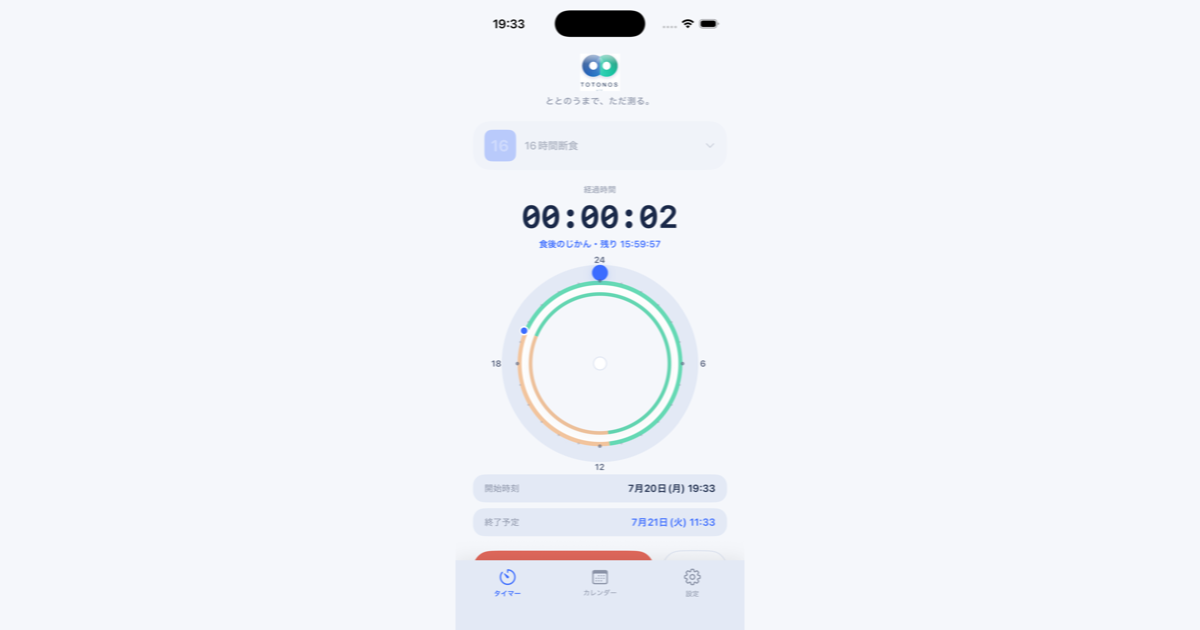
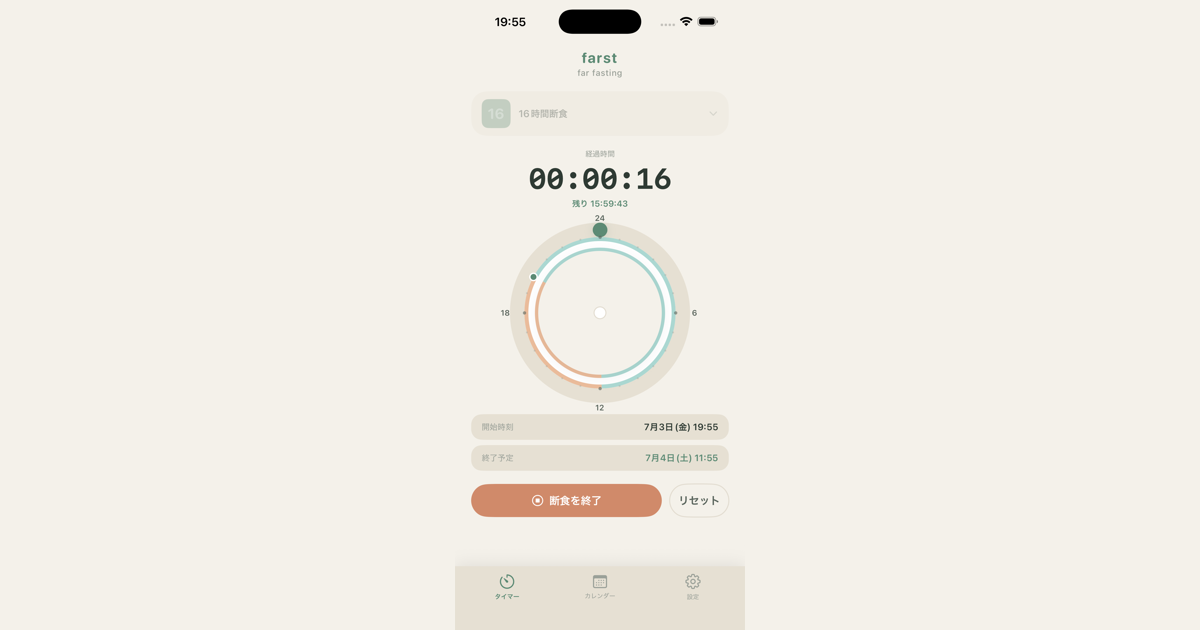
Revert "Rebrand site to TOTONOS (旧farst): LP, llms.txt, JSON-LD, OGP, new screenshots"
This reverts commit 7ea66edbb97db371519e6d4b2ed0dc7d3db63e6d.

diff --git a/farst/index.html b/farst/index.html
@@ -3,24 +3,24 @@
 <head>
 <meta charset="utf-8">
 <meta name="viewport" content="width=device-width, initial-scale=1">
-<title>TOTONOS - 断食タイマー｜無料・広告なしのiPhoneアプリ</title>
-<meta name="description" content="TOTONOS（ととのう）は16時間断食をゆるく続けるための無料iPhoneアプリ。広告なし・アカウント不要・記録は端末内のみ。1タップのタイマー、ホーム画面ウィジェット、体調メモ、体重・カレンダー。日本語対応、iOS 16以降。旧farst。">
+<title>farst - ゆるく続ける断食タイマー｜無料・広告なしのiPhoneアプリ</title>
+<meta name="description" content="farst（ファースト）は16時間断食をゆるく続けるための無料iPhoneアプリ。広告なし・アカウント不要・記録は端末内のみ。タイマーを押すだけのシンプルな断食記録と体調メモ、カレンダー分析。日本語対応、iOS 16以降。">
 <link rel="canonical" href="https://benihisago88.github.io/farst/">
 <meta name="apple-itunes-app" content="app-id=6787091633">
 
 <!-- OGP -->
 <meta property="og:type" content="website">
-<meta property="og:site_name" content="TOTONOS">
-<meta property="og:title" content="TOTONOS - 断食タイマー">
-<meta property="og:description" content="無料・広告なし・アカウント不要。ととのうまで、ただ測る。ホーム画面ウィジェット対応の断食タイマー。記録はすべて端末の中だけ。">
+<meta property="og:site_name" content="farst">
+<meta property="og:title" content="farst - ゆるく続ける断食タイマー">
+<meta property="og:description" content="無料・広告なし・アカウント不要。16時間断食をゆるく続けるためのiPhoneアプリ。記録はすべて端末の中だけ。">
 <meta property="og:url" content="https://benihisago88.github.io/farst/">
 <meta property="og:image" content="https://benihisago88.github.io/farst/assets/og.png">
 <meta property="og:image:width" content="1200">
 <meta property="og:image:height" content="630">
 <meta property="og:locale" content="ja_JP">
 <meta name="twitter:card" content="summary_large_image">
-<meta name="twitter:title" content="TOTONOS - 断食タイマー">
-<meta name="twitter:description" content="無料・広告なし・アカウント不要の断食タイマー。ととのうまで、ただ測る。">
+<meta name="twitter:title" content="farst - ゆるく続ける断食タイマー">
+<meta name="twitter:description" content="無料・広告なし・アカウント不要の断食タイマー。記録は端末の中だけ。">
 <meta name="twitter:image" content="https://benihisago88.github.io/farst/assets/og.png">
 
 <!-- 構造化データ: アプリ情報 -->
@@ -28,12 +28,12 @@
 {
   "@context": "https://schema.org",
   "@type": "SoftwareApplication",
-  "name": "TOTONOS - 断食タイマー",
-  "alternateName": ["TOTONOS", "ととのう", "farst"],
+  "name": "farst - ゆるく続ける断食タイマー",
+  "alternateName": "farst",
   "operatingSystem": "iOS 16.0以降",
   "applicationCategory": "HealthApplication",
   "applicationSubCategory": "断食タイマー",
-  "description": "16時間断食（インターミッテント・ファスティング）をゆるく続けるためのタイマーアプリ。広告なし・アカウント不要・記録は端末内のみ。24時間ダイヤル、ホーム画面ウィジェット、体調メモ、体重、カレンダー、CSV入出力。",
+  "description": "16時間断食（インターミッテント・ファスティング）をゆるく続けるためのタイマーアプリ。広告なし・アカウント不要・記録は端末内のみ。24時間ダイヤル、体調メモ、カレンダー分析、CSV入出力。",
   "url": "https://benihisago88.github.io/farst/",
   "installUrl": "https://apps.apple.com/jp/app/id6787091633",
   "sameAs": "https://apps.apple.com/jp/app/id6787091633",
@@ -43,7 +43,7 @@
   "screenshot": [
     "https://benihisago88.github.io/farst/assets/01_timer.png",
     "https://benihisago88.github.io/farst/assets/02_timer_active.png",
-    "https://benihisago88.github.io/farst/assets/03_complete.png"
+    "https://benihisago88.github.io/farst/assets/03_calendar.png"
   ]
 }
 </script>
@@ -56,18 +56,13 @@
   "mainEntity": [
     {
       "@type": "Question",
-      "name": "TOTONOSは無料ですか？",
+      "name": "farstは無料ですか？",
       "acceptedAnswer": { "@type": "Answer", "text": "はい、完全に無料です。広告表示もアプリ内課金もありません。" }
     },
     {
       "@type": "Question",
       "name": "16時間断食のタイマーとして使えますか？",
       "acceptedAnswer": { "@type": "Answer", "text": "使えます。16時間・18時間・20時間・24時間のプリセットに加えて、12〜23時間のカスタムプランを作成できます。" }
-    },
-    {
-      "@type": "Question",
-      "name": "ホーム画面ウィジェットはありますか？",
-      "acceptedAnswer": { "@type": "Answer", "text": "あります。ホーム画面とロック画面のウィジェットに対応していて、アプリを開かなくても経過時間と目標までの残りを確認できます。" }
     },
     {
       "@type": "Question",
@@ -87,12 +82,12 @@
     {
       "@type": "Question",
       "name": "機種変更のとき記録は引き継げますか？",
-      "acceptedAnswer": { "@type": "Answer", "text": "引き継げます。設定からCSVファイルで書き出し、新しい端末で読み込めます。断食の記録と体重の両方に対応しています。" }
+      "acceptedAnswer": { "@type": "Answer", "text": "引き継げます。設定からCSVファイルで書き出し、新しい端末で読み込めます。" }
     },
     {
       "@type": "Question",
-      "name": "体重も記録できますか？",
-      "acceptedAnswer": { "@type": "Answer", "text": "できます。1日1回、朝の体重を残せて、カレンダーで推移を見られます。" }
+      "name": "通知はどのくらい来ますか？",
+      "acceptedAnswer": { "@type": "Answer", "text": "断食の終了時刻のリマインダーだけです。設定でオフにもできます。それ以外の時間にアプリから話しかけることはありません。" }
     },
     {
       "@type": "Question",
@@ -101,18 +96,18 @@
     },
     {
       "@type": "Question",
-      "name": "TOTONOSは以前のfarstと同じアプリですか？",
-      "acceptedAnswer": { "@type": "Answer", "text": "同じアプリです。farstから名称をTOTONOSに変更しました。アップデートすると記録はそのまま引き継がれます。" }
-    },
-    {
-      "@type": "Question",
       "name": "Androidには対応していますか？",
       "acceptedAnswer": { "@type": "Answer", "text": "現在はiPhone（iOS 16以降）のみの対応です。" }
     },
     {
       "@type": "Question",
+      "name": "ホーム画面ウィジェットはありますか？",
+      "acceptedAnswer": { "@type": "Answer", "text": "次のアップデートで、経過時間をホーム画面とロック画面で確認できるウィジェットに対応予定です。" }
+    },
+    {
+      "@type": "Question",
       "name": "断食は誰でもできますか？",
-      "acceptedAnswer": { "@type": "Answer", "text": "TOTONOSは時間を記録する道具であり、医療アプリではありません。体調と相談しながら無理のない範囲で行ってください。持病のある方、妊娠中・授乳中の方は開始前に医師にご相談ください。" }
+      "acceptedAnswer": { "@type": "Answer", "text": "farstは時間を記録する道具であり、医療アプリではありません。体調と相談しながら無理のない範囲で行ってください。持病のある方、妊娠中・授乳中の方は開始前に医師にご相談ください。" }
     }
   ]
 }
@@ -120,13 +115,14 @@
 
 <style>
   :root {
-    --bg: #F5F7FB;
-    --blue: #3B6CFF;
-    --teal: #2ECF9A;
-    --ink: #1B2A4A;
-    --muted: #56617C;
-    --card: #FFFFFF;
-    --border: #E0E6F2;
+    --bg: #F4F1EA;
+    --sage: #5C8A74;
+    --sage-light: #9CBDA9;
+    --terra: #D08A6A;
+    --ink: #26221E;
+    --muted: #6b6359;
+    --card: #fbf9f4;
+    --border: #E2DCD0;
   }
   * { box-sizing: border-box; }
   body {
@@ -138,21 +134,20 @@
     -webkit-font-smoothing: antialiased;
   }
   .wrap { max-width: 760px; margin: 0 auto; padding: 48px 24px 80px; }
-  header.site { display: flex; align-items: center; gap: 12px; margin-bottom: 40px; }
+  header.site { display: flex; align-items: center; gap: 14px; margin-bottom: 40px; }
   .mark {
-    width: 46px; height: 46px; border-radius: 12px; flex: none;
-    background: linear-gradient(135deg, var(--blue), var(--teal));
+    width: 44px; height: 44px; border-radius: 12px;
+    background: var(--sage); color: var(--bg);
     display: flex; align-items: center; justify-content: center;
+    font-weight: 700; font-size: 24px; flex: none;
   }
-  .mark span { width: 10px; height: 10px; border-radius: 50%; background: #fff; box-shadow: 14px 0 0 #fff; margin-right: 14px; }
-  .brand { font-weight: 800; font-size: 20px; letter-spacing: .14em; color: var(--ink); }
-  h1 { font-size: 30px; line-height: 1.45; margin: 0 0 10px; letter-spacing: .02em; }
+  .brand { font-weight: 700; font-size: 20px; letter-spacing: .06em; color: var(--sage); }
+  h1 { font-size: 30px; line-height: 1.45; margin: 0 0 12px; letter-spacing: .02em; }
   .lead { font-size: 16px; color: var(--muted); margin: 0 0 24px; }
   .cta {
-    display: inline-block; background: var(--blue); color: #fff;
+    display: inline-block; background: var(--sage); color: #fff;
     text-decoration: none; font-weight: 700; font-size: 16px;
     padding: 14px 28px; border-radius: 999px;
-    box-shadow: 0 8px 20px rgba(59,108,255,.25);
   }
   .cta:hover { opacity: .92; }
   .cta-sub { display: block; font-size: 13px; color: var(--muted); margin-top: 10px; }
@@ -160,9 +155,9 @@
   .hero-text { flex: 1 1 320px; }
   .hero-img { flex: 0 1 240px; }
   .hero-img img, .shots img {
-    width: 100%; height: auto; border-radius: 22px;
+    width: 100%; height: auto; border-radius: 18px;
     border: 1px solid var(--border);
-    box-shadow: 0 12px 32px rgba(27,42,74,.12);
+    box-shadow: 0 10px 30px rgba(0,0,0,.10);
   }
   .facts {
     display: grid; grid-template-columns: repeat(auto-fit, minmax(150px, 1fr));
@@ -172,10 +167,12 @@
     background: var(--card); border: 1px solid var(--border);
     border-radius: 12px; padding: 12px 14px; font-size: 14px;
   }
-  .facts b { display: block; color: var(--blue); font-size: 12px; letter-spacing: .04em; }
-  h2 { font-size: 20px; color: var(--blue); margin: 52px 0 12px; letter-spacing: .02em; }
+  .facts b { display: block; color: var(--sage); font-size: 12px; letter-spacing: .04em; }
+  h2 {
+    font-size: 20px; color: var(--sage);
+    margin: 52px 0 12px; letter-spacing: .02em;
+  }
   h3 { font-size: 16px; margin: 26px 0 6px; }
-  h3 .new { font-size: 11px; font-weight: 700; color: #fff; background: var(--teal); border-radius: 6px; padding: 1px 7px; margin-left: 8px; vertical-align: middle; }
   p { margin: 0 0 12px; }
   .shots { display: grid; grid-template-columns: repeat(auto-fit, minmax(180px, 1fr)); gap: 16px; margin-top: 16px; }
   .shots figure { margin: 0; }
@@ -189,39 +186,39 @@
   .faq summary { font-weight: 700; cursor: pointer; padding: 10px 0; }
   .faq p { color: var(--muted); margin: 0 0 14px; }
   .disclaimer {
-    background: var(--card); border-left: 4px solid var(--teal);
+    background: var(--card); border-left: 4px solid var(--terra);
     border-radius: 10px; padding: 16px 20px; margin-top: 20px; font-size: 14px; color: var(--muted);
   }
   footer {
     margin-top: 64px; padding-top: 20px;
-    border-top: 1px solid rgba(27,42,74,.10);
+    border-top: 1px solid rgba(0,0,0,.08);
     color: var(--muted); font-size: 13px;
   }
-  a { color: var(--blue); }
+  a { color: var(--sage); }
 </style>
 </head>
 <body>
 <div class="wrap">
 
   <header class="site">
-    <div class="mark"><span></span></div>
-    <span class="brand">TOTONOS</span>
+    <div class="mark">F</div>
+    <span class="brand">farst</span>
   </header>
 
   <main>
     <section class="hero">
       <div class="hero-text">
-        <h1>TOTONOS — 断食タイマー</h1>
-        <p class="lead">ととのうまで、ただ測る。16時間断食を、がんばりすぎずに続けるためのiPhoneアプリ。タイマーを押すだけ。広告なし、アカウント不要、記録はぜんぶ端末の中だけ。</p>
+        <h1>farst — ゆるく続ける<br>断食タイマー</h1>
+        <p class="lead">16時間断食（インターミッテント・ファスティング）を、がんばりすぎずに続けるためのiPhoneアプリ。タイマーを押すだけ。広告なし、アカウント不要、記録はぜんぶ端末の中だけ。</p>
         <a class="cta" href="https://apps.apple.com/jp/app/id6787091633" rel="noopener">App Storeで入手する</a>
-        <span class="cta-sub">無料・課金なし・iOS 16以降 ／ 旧 farst</span>
+        <span class="cta-sub">無料・課金なし・iOS 16以降</span>
       </div>
       <div class="hero-img">
-        <img src="assets/02_timer_active.png" width="640" height="1390" alt="TOTONOSの断食タイマー画面。24時間ダイヤルに断食と食事の時間帯が表示され、経過時間を計測中" loading="eager">
+        <img src="assets/02_timer_active.png" width="640" height="1390" alt="farstの断食タイマー画面。24時間ダイヤルに断食と食事の時間帯が表示され、経過時間14時間を計測中" loading="eager">
       </div>
     </section>
 
-    <ul class="facts" aria-label="TOTONOSの基本情報">
+    <ul class="facts" aria-label="farstの基本情報">
       <li><b>価格</b>無料（課金なし）</li>
       <li><b>広告</b>なし</li>
       <li><b>アカウント</b>登録不要</li>
@@ -230,30 +227,28 @@
       <li><b>言語</b>日本語</li>
     </ul>
 
-    <h2>TOTONOSとは</h2>
-    <p>TOTONOS（ととのう）は、「食べない時間」を測るだけのシンプルな断食タイマーです。食事記録アプリのような細かい入力はありません。夜、食べ終わったらスタート。翌日、食べる前にストップ。それだけで記録が積み重なっていきます。</p>
-    <p>ストイックに追い込むためのアプリではなく、体調を見ながら自分のペースで続けることを大切にしています。勝ちに行くのではなく、リズムがととのうまで、ただ測る——そんな道具です。</p>
+    <h2>farstとは</h2>
+    <p>farst（ファースト）は、「食べない時間」を測るだけのシンプルな断食タイマーです。食事記録アプリのような細かい入力はありません。夜、食べ終わったらスタート。翌日、食べる前にストップ。それだけで記録が積み重なっていきます。</p>
+    <p>ストイックに追い込むためのアプリではなく、体調を見ながら自分のペースで続けることを大切にしています。つらい日は休む——それも記録のひとつ、という考え方で作られています。</p>
 
     <h2>主な機能</h2>
     <h3>1タップのタイマーと24時間ダイヤル</h3>
     <p>スタートを押すだけで計測開始。24時間ダイヤルに「食べない時間」と「食べていい時間」が描かれ、いま自分がどこにいるのかがひと目でわかります。</p>
-    <h3>ホーム画面ウィジェット<span class="new">対応</span></h3>
-    <p>ホーム画面とロック画面のウィジェットに対応。アプリを開かなくても、経過時間と目標までの残りを確認できます。</p>
     <h3>プランは16・18・20・24時間＋カスタム</h3>
     <p>定番の16時間断食（16:8）から、12〜23時間のカスタムプランまで。慣れてきたら少しずつ伸ばす使い方ができます。</p>
-    <h3>体調メモ・体重・カレンダー</h3>
-    <p>断食の終わりに体調とひとことメモを、朝には体重を残せます。カレンダーには月ごとのふりかえり、連続記録、体重の推移が育っていきます。</p>
+    <h3>体調メモとカレンダー</h3>
+    <p>断食の終わりに体調（良い・普通・悪い）とひとことメモを残せます。カレンダーには月ごとのふりかえり、連続記録、達成率などの分析が育っていきます。</p>
     <h3>CSVで書き出し・読み込み</h3>
-    <p>断食の記録も体重もCSVファイルで書き出せます。機種変更やバックアップも安心です。</p>
+    <p>記録はCSVファイルで書き出せます。機種変更やバックアップも安心です。</p>
 
     <div class="shots">
       <figure>
-        <img src="assets/01_timer.png" width="640" height="1390" alt="TOTONOSのタイマー待機画面。16時間断食プランを選択した状態" loading="lazy">
+        <img src="assets/01_timer.png" width="640" height="1390" alt="farstのタイマー待機画面。16時間断食プランを選択した状態" loading="lazy">
         <figcaption>プランを選んでスタートするだけ</figcaption>
       </figure>
       <figure>
-        <img src="assets/03_complete.png" width="640" height="1390" alt="TOTONOSの完了画面。合計断食時間と体調メモを記録できる" loading="lazy">
-        <figcaption>終わったら、静かに記録する</figcaption>
+        <img src="assets/03_calendar.png" width="640" height="1390" alt="farstのカレンダー画面。断食記録と月ごとの分析が表示されている" loading="lazy">
+        <figcaption>カレンダーに記録が育っていく</figcaption>
       </figure>
     </div>
 
@@ -266,31 +261,63 @@
 
     <h2 id="faq">よくある質問</h2>
     <div class="faq">
-      <details><summary>TOTONOSは無料ですか？</summary><p>はい、完全に無料です。広告表示もアプリ内課金もありません。</p></details>
-      <details><summary>16時間断食のタイマーとして使えますか？</summary><p>使えます。16時間・18時間・20時間・24時間のプリセットに加えて、12〜23時間のカスタムプランを作成できます。</p></details>
-      <details><summary>ホーム画面ウィジェットはありますか？</summary><p>あります。ホーム画面とロック画面のウィジェットに対応していて、アプリを開かなくても経過時間と目標までの残りを確認できます。</p></details>
-      <details><summary>広告は表示されますか？</summary><p>表示されません。バナー広告も動画広告も一切ありません。</p></details>
-      <details><summary>アカウント登録は必要ですか？</summary><p>不要です。インストールしてすぐに使えます。メールアドレスなどの個人情報も入力しません。</p></details>
-      <details><summary>記録したデータはどこに保存されますか？</summary><p>すべてお使いのiPhoneの中にのみ保存されます。サーバーへの送信は行っていません。詳しくは<a href="https://benihisago88.github.io/farst-privacy/">プライバシーポリシー</a>をご覧ください。</p></details>
-      <details><summary>機種変更のとき記録は引き継げますか？</summary><p>引き継げます。設定からCSVファイルで書き出し、新しい端末で読み込めます。手順は<a href="https://benihisago88.github.io/farst-support/">サポートページ</a>にあります。</p></details>
-      <details><summary>体重も記録できますか？</summary><p>できます。1日1回、朝の体重を残せて、カレンダーで推移を見られます。</p></details>
-      <details><summary>オフラインでも使えますか？</summary><p>使えます。タイマー・記録・分析のすべてがインターネット接続なしで動作します。</p></details>
-      <details><summary>TOTONOSは以前のfarstと同じアプリですか？</summary><p>同じアプリです。farstから名称をTOTONOSに変更しました。アップデートすると、これまでの記録はそのまま引き継がれます。</p></details>
-      <details><summary>Androidには対応していますか？</summary><p>現在はiPhone（iOS 16以降）のみの対応です。</p></details>
-      <details><summary>断食は誰でもできますか？</summary><p>TOTONOSは時間を記録する道具であり、医療アプリではありません。体調と相談しながら無理のない範囲で行ってください。持病のある方、妊娠中・授乳中の方は開始前に医師にご相談ください。</p></details>
+      <details>
+        <summary>farstは無料ですか？</summary>
+        <p>はい、完全に無料です。広告表示もアプリ内課金もありません。</p>
+      </details>
+      <details>
+        <summary>16時間断食のタイマーとして使えますか？</summary>
+        <p>使えます。16時間・18時間・20時間・24時間のプリセットに加えて、12〜23時間のカスタムプランを作成できます。</p>
+      </details>
+      <details>
+        <summary>広告は表示されますか？</summary>
+        <p>表示されません。バナー広告も動画広告も一切ありません。</p>
+      </details>
+      <details>
+        <summary>アカウント登録は必要ですか？</summary>
+        <p>不要です。インストールしてすぐに使えます。メールアドレスなどの個人情報も入力しません。</p>
+      </details>
+      <details>
+        <summary>記録したデータはどこに保存されますか？</summary>
+        <p>すべてお使いのiPhoneの中にのみ保存されます。サーバーへの送信は行っていません。詳しくは<a href="https://benihisago88.github.io/farst-privacy/">プライバシーポリシー</a>をご覧ください。</p>
+      </details>
+      <details>
+        <summary>機種変更のとき記録は引き継げますか？</summary>
+        <p>引き継げます。設定からCSVファイルで書き出し、新しい端末で読み込めます。手順は<a href="https://benihisago88.github.io/farst-support/">サポートページ</a>にあります。</p>
+      </details>
+      <details>
+        <summary>通知はどのくらい来ますか？</summary>
+        <p>断食の終了時刻のリマインダーだけです。設定でオフにもできます。それ以外の時間にアプリから話しかけることはありません。</p>
+      </details>
+      <details>
+        <summary>オフラインでも使えますか？</summary>
+        <p>使えます。タイマー・記録・分析のすべてがインターネット接続なしで動作します。</p>
+      </details>
+      <details>
+        <summary>Androidには対応していますか？</summary>
+        <p>現在はiPhone（iOS 16以降）のみの対応です。</p>
+      </details>
+      <details>
+        <summary>ホーム画面ウィジェットはありますか？</summary>
+        <p>次のアップデートで、経過時間をホーム画面とロック画面で確認できるウィジェットに対応予定です。</p>
+      </details>
+      <details>
+        <summary>断食は誰でもできますか？</summary>
+        <p>farstは時間を記録する道具であり、医療アプリではありません。体調と相談しながら無理のない範囲で行ってください。持病のある方、妊娠中・授乳中の方は開始前に医師にご相談ください。</p>
+      </details>
     </div>
 
     <div class="disclaimer">
-      TOTONOSは食事と空腹の時間を記録するための道具です。医療機器ではなく、診断・治療・予防を目的としたアプリではありません。健康上の不安がある場合は専門家にご相談ください。
+      farstは食事と空腹の時間を記録するための道具です。医療機器ではなく、診断・治療・予防を目的としたアプリではありません。健康上の不安がある場合は専門家にご相談ください。
     </div>
 
     <h2>ダウンロード</h2>
     <p>App Store（日本）で無料配信中です。</p>
-    <p><a class="cta" href="https://apps.apple.com/jp/app/id6787091633" rel="noopener">App Storeで「TOTONOS」を入手</a></p>
+    <p><a class="cta" href="https://apps.apple.com/jp/app/id6787091633" rel="noopener">App Storeで「farst」を入手</a></p>
   </main>
 
   <footer>
-    TOTONOS — 断食タイマー（旧 farst）<br>
+    farst — ゆるく続ける断食タイマー<br>
     <a href="https://apps.apple.com/jp/app/id6787091633">App Store</a> ・
     <a href="https://benihisago88.github.io/farst-support/">サポート</a> ・
     <a href="https://benihisago88.github.io/farst-privacy/">プライバシーポリシー</a>

diff --git a/index.html b/index.html
@@ -3,12 +3,12 @@
 <head>
 <meta charset="utf-8">
 <meta name="viewport" content="width=device-width, initial-scale=1">
-<title>TOTONOS - 断食タイマー</title>
+<title>farst - ゆるく続ける断食タイマー</title>
 <meta http-equiv="refresh" content="0; url=/farst/">
 <link rel="canonical" href="https://benihisago88.github.io/farst/">
-<meta name="description" content="TOTONOS（ととのう）— 無料・広告なしの断食タイマーiPhoneアプリの公式サイトへ移動します。">
+<meta name="description" content="farst（ファースト）— 無料・広告なしの断食タイマーiPhoneアプリの公式サイトへ移動します。">
 </head>
 <body>
-<p><a href="/farst/">TOTONOS — 断食タイマー 公式サイトへ</a></p>
+<p><a href="/farst/">farst — ゆるく続ける断食タイマー 公式サイトへ</a></p>
 </body>
 </html>